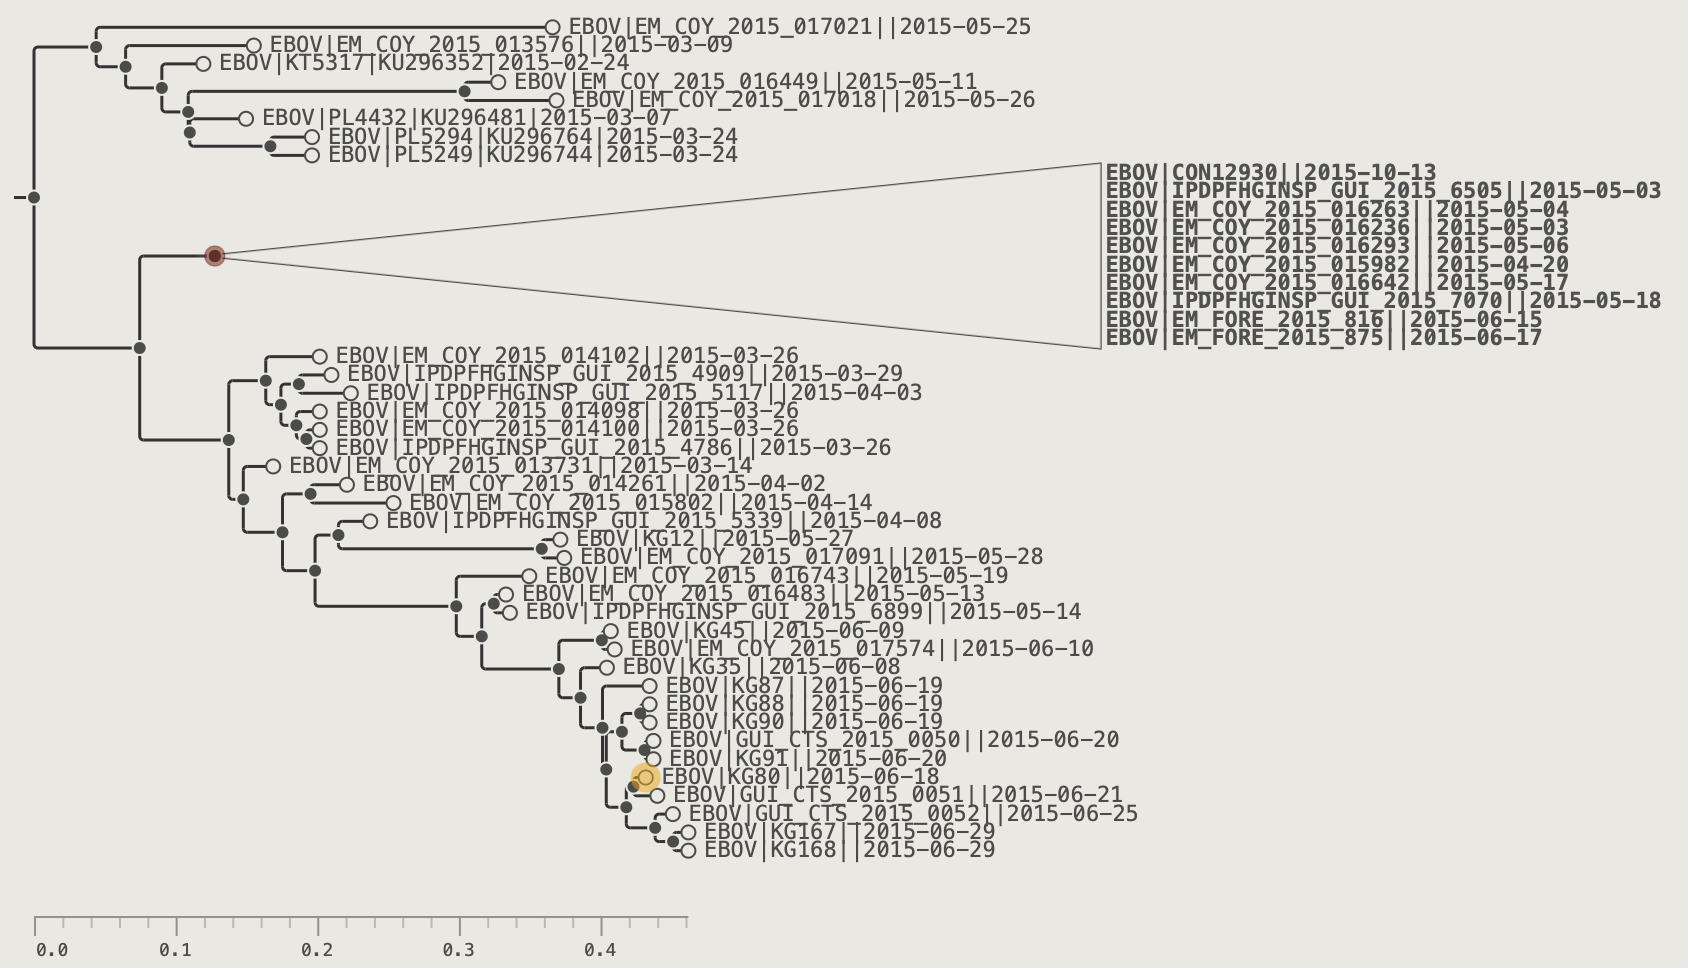
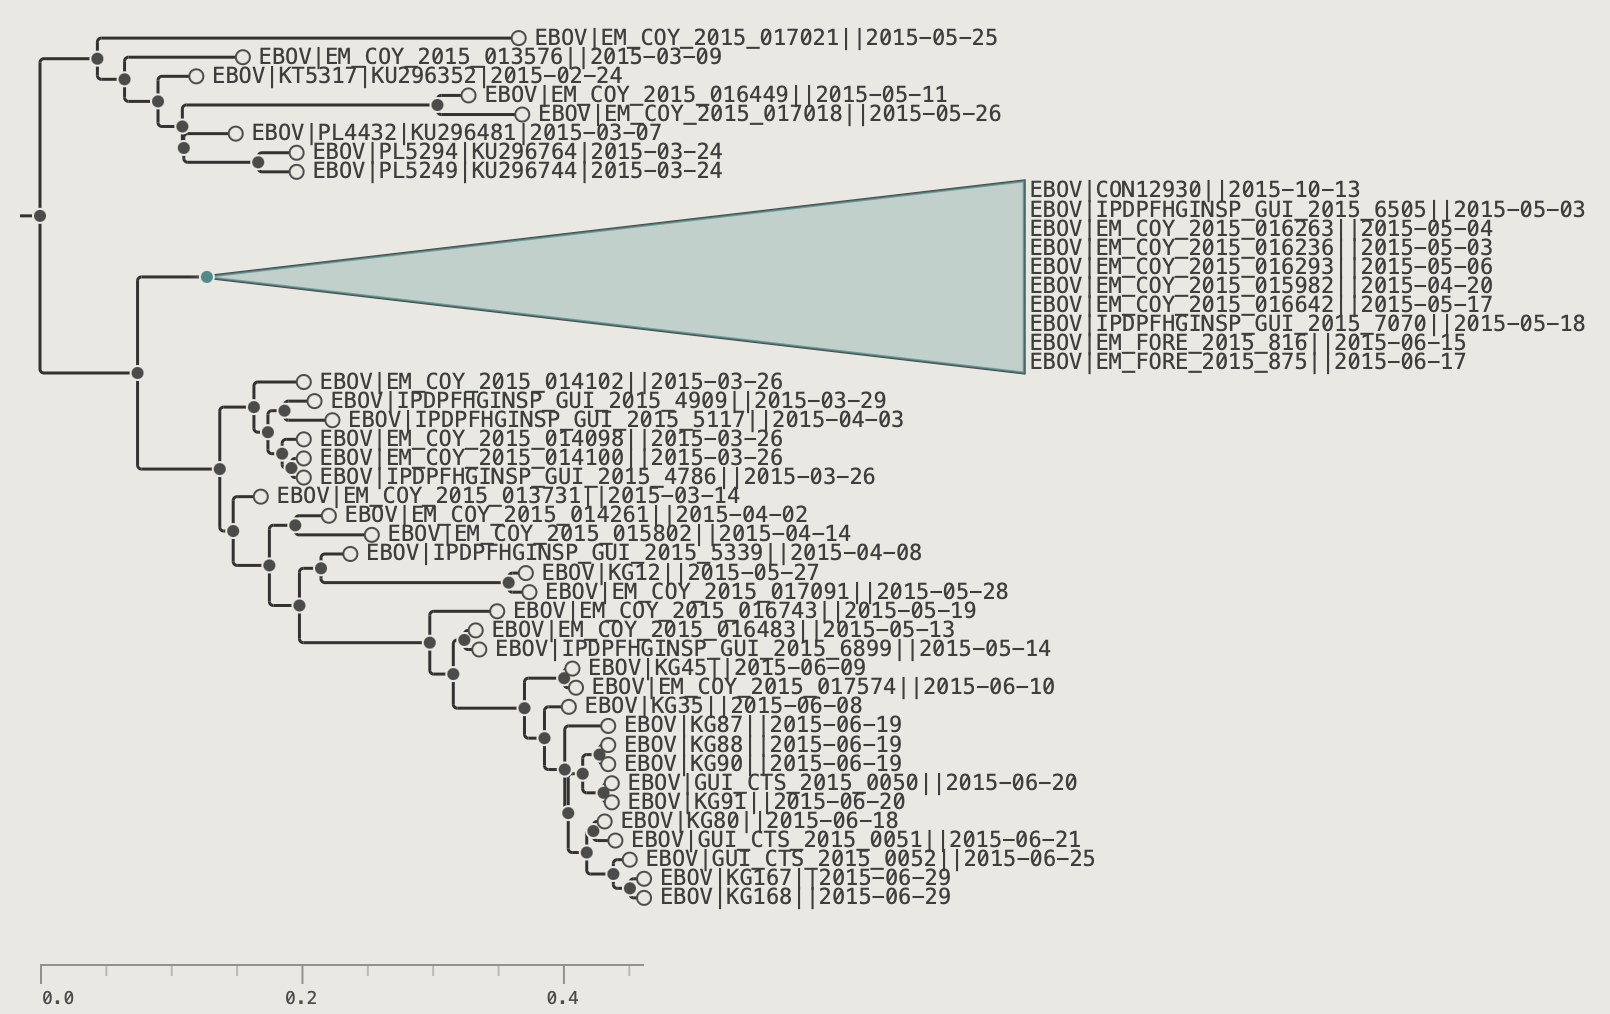
Final tweaks to collapsed clades

Changed region(s): [[0.0, 0.0, 0.9938, 0.8988], [0.0, 0.9298, 0.4037, 0.9917]]

diff --git a/peartree/manual/manual.md b/peartree/manual/manual.md
@@ -444,11 +444,11 @@ The subtree becomes a filled triangle labelled with the clade name and enclosed 
 
 The **Span** control in the **COLLAPSED CLADES** section of the control panel can adjust the vertical size of the triangle shapes. If set to the maximum then the triangles become the size of the number of tips that they contain and the individual labels will be shown if sufficiently zoomed in.
 
-{% include 'figure.html', src: "images/clade_collapsed_full.png", alt: "Collapsed clade fully expanded", maxwidth: "80%", bg: "#EAE8E1", legend: "The collapsed clade scaled to show all the tip labels." %}
+**Changing a triangle's colour:** with a triangle selected, use the colour picker and **Paint** button {%- include 'btn.html', id: "btn-apply-user-colour" %} in the toolbar to assign a custom fill colour. The eraser button {%- include 'btn.html', id: "btn-clear-user-colour" %} resets to the theme default.
+
+{% include 'figure.html', src: "images/clade_collapsed_full.png", alt: "Collapsed clade fully expanded", maxwidth: "80%", bg: "#EAE8E1", legend: "The collapsed clade scaled to show all the tip labels. It has also been coloured using the <b>Paint</b> button." %}
 
 To expand the clade: click the triangle to select it and click **Expand** {%- include 'btn.html', id: "btn-expand-clade" %}. Selecting a clade and then clicking **Expand** {%- include 'btn.html', id: "btn-expand-clade" %} will expand all collapsed subclades and with no selection, all collapse clades visible on the screen.
-
-**Changing a triangle's colour:** with a triangle selected, use the colour picker and paint brush button {%- include 'btn.html', id: "btn-apply-user-colour" %} in the toolbar to assign a custom fill colour. The eraser button {%- include 'btn.html', id: "btn-clear-user-colour" %} resets to the theme default.
 
 See the [**Collapsed Clades**](#collapsed-clades) section of the **Visual Options palette** for more controls of the collapsed clades.
 